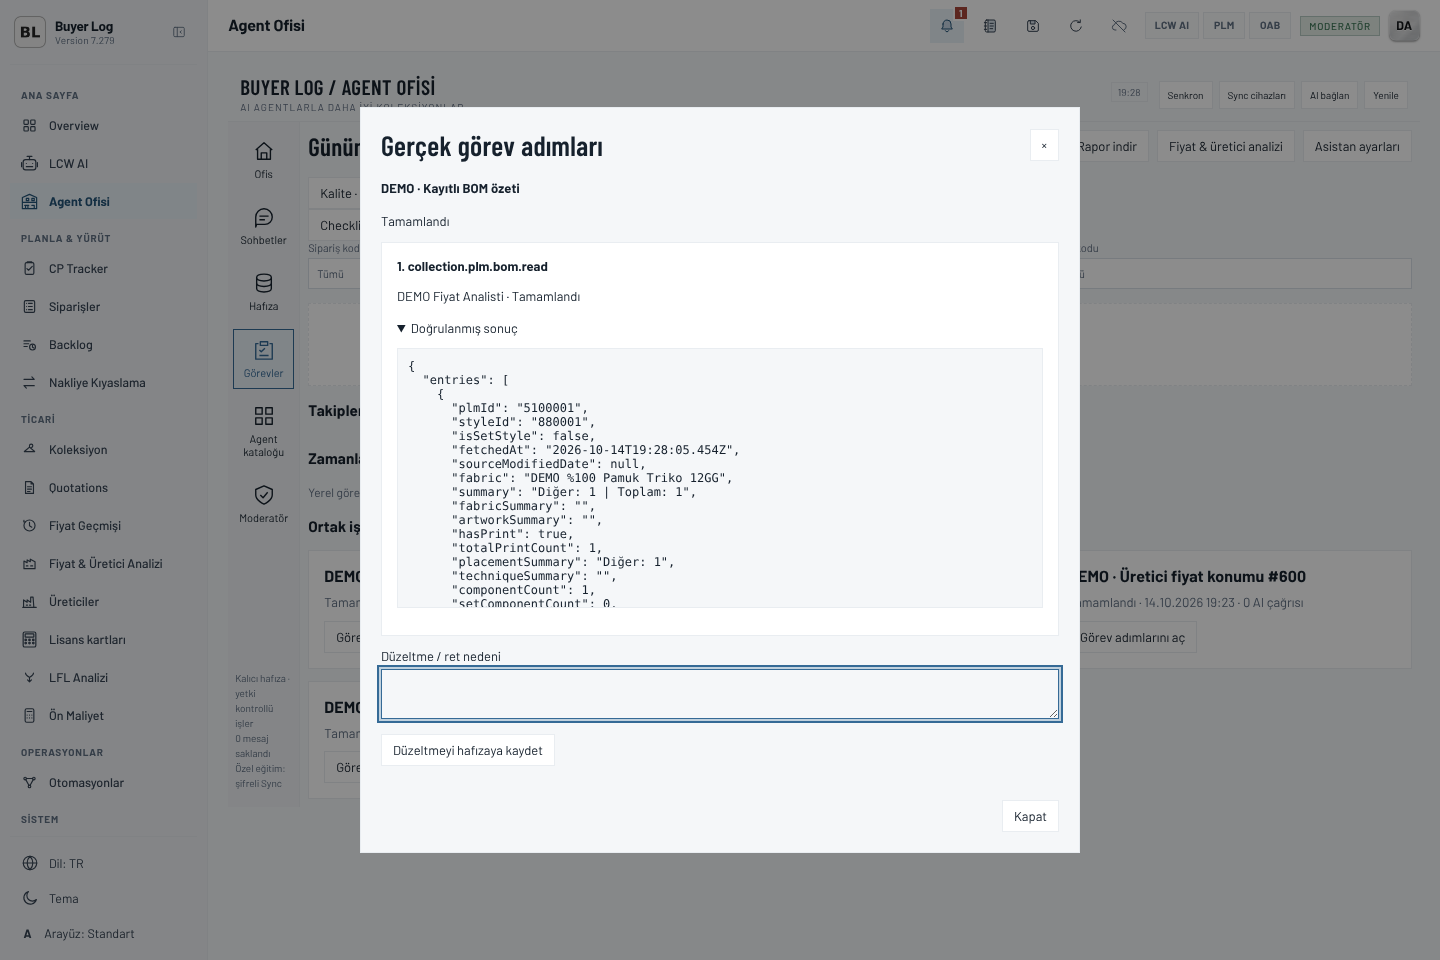
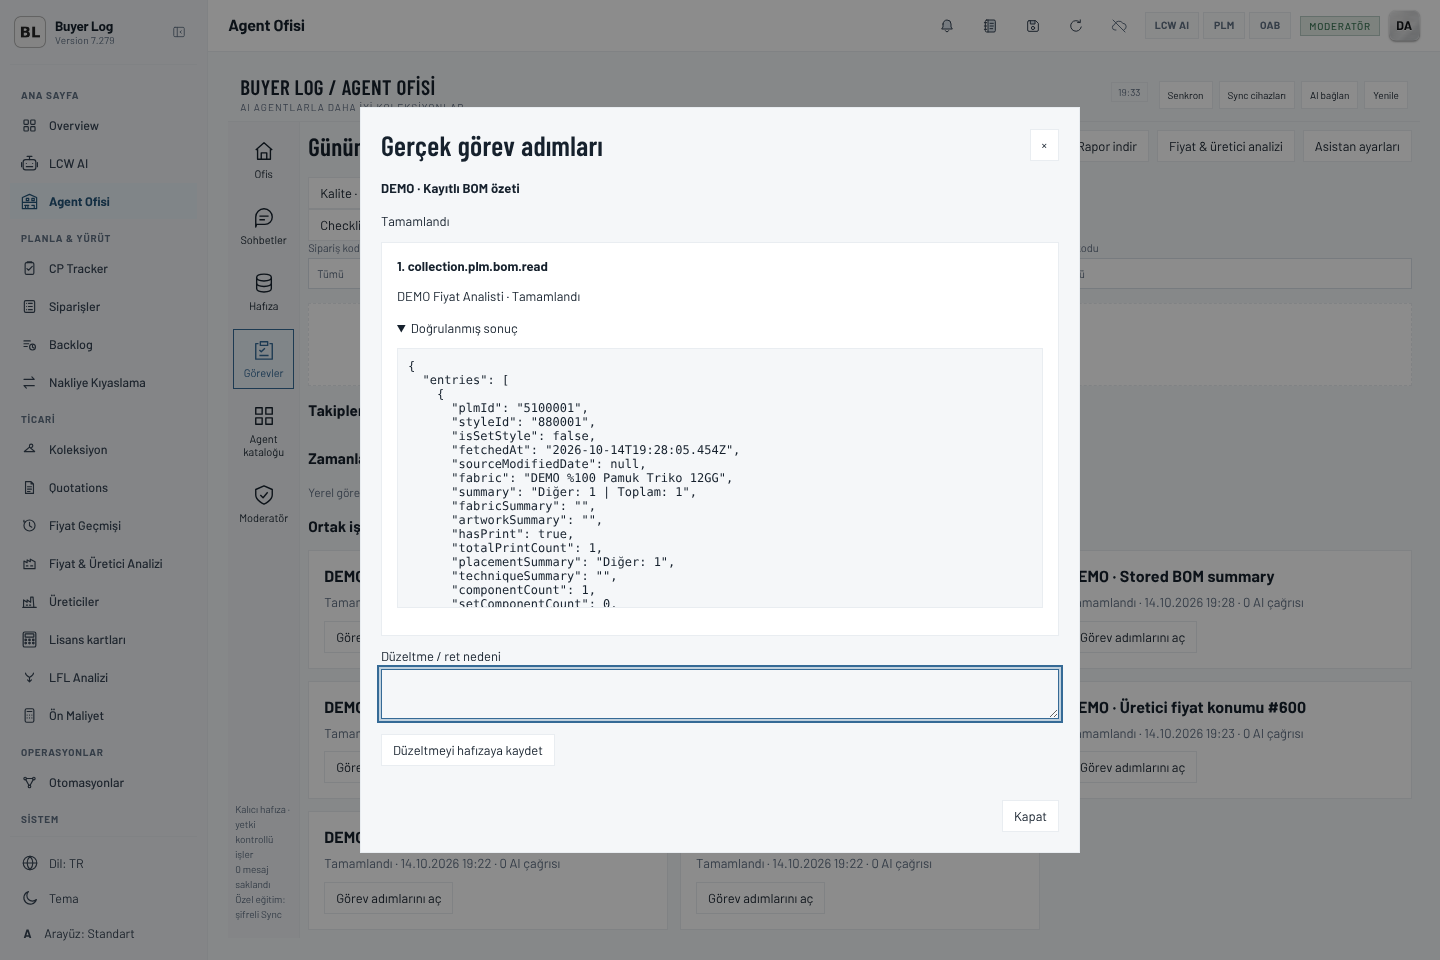
fix(agent): review follow-ups for price analysis and holiday reads
- Holidays: a provider outage (service returns source 'unavailable' with
  only estimated dates) is refused with OFFICE_HOLIDAY_UNAVAILABLE instead
  of being reported as a verified calendar; each holiday keeps the flags the
  screen uses (national/global, subdivisions, types, estimated).
- Price analysis: with only currentSeason the comparison season is the one
  before it, as on the screen; filter values that normalize to empty are
  refused; strict output schemas.
- Neutral TR/EN text for OFFICE_SOURCE_FILTER_REQUIRED (also used by reads).
- Recaptured holiday/PLM screenshots with matching agent names.

Claude-Session: https://claude.ai/code/session_01RDGeBuF9PY1NvEEQxNYnrZ

diff --git a/resources/app/server/lib/agent-price-analysis-tools.js b/resources/app/server/lib/agent-price-analysis-tools.js
@@ -6,10 +6,14 @@
 const {object,string,array}=require('./agent-capability-contract'),{error}=require('./agent-office-store');
 const Prices=require('../../public/price-supplier-insights-engine'),fields=require('./canonical-fields'),{aggregateSupplier}=require('./agent-office-decision-support');
 const count={type:'integer',minimum:0},num={type:['number','null']},label=string(300);
-const filters=object(Object.fromEntries(Prices.FILTER_DIMENSIONS.map(dim=>[dim,{...array(string(300),100),minItems:1}])));
+const filters=object(Object.fromEntries(Prices.FILTER_DIMENSIONS.map(dim=>[dim,{...array({...string(300),minLength:1},100),minItems:1}])));
 const place=object({key:label,name:label,volume:num,previousVolume:num,share:num,previousShare:num,shareChange:num,records:count,previousRecords:count,price:num,priceChange:num});
+const supplierGroup=object({key:label,name:label,volume:num,previousVolume:num,records:count,price:num,models:count,index:num,groupShare:num,priceChange:num});
+const supplier=object({key:label,name:label,volume:num,previousVolume:num,share:num,previousShare:num,volumeChange:num,price:num,previousPrice:num,models:count,priceLevel:num,priceChange:num,priceChangeCoverage:num,records:count,previousRecords:count,status:string(20),volumeDelta:num,groups:array(supplierGroup,8),omittedGroups:count});
+const group=object({key:label,name:label,volume:num,share:num,price:num,models:count,suppliers:array(object({key:label,name:label,price:num,index:num,volume:num,share:num,models:count,eligible:{type:'boolean'}}),10)});
 const output={...object({verified:{enum:[true]},data:{...object({priceType:{enum:['finalFob','supplierFob']},currency:string(8),currencies:array(string(8),50),seasons:array(string(80),200),currentSeason:string(80),previousSeason:string(80),hasComparison:{type:'boolean'},
-  groupBy:string(40),totals:{type:'object'},manufacturers:array({type:'object'},100),omittedManufacturers:count,countries:array(place,30),groups:array({type:'object'},30),records:count,loadedAt:{type:['string','null'],maxLength:60}}),required:['priceType','currency','totals','manufacturers','records']}}),required:['verified','data']};
+  groupBy:string(40),totals:object({volume:num,previousVolume:num,volumeChange:num,price:num,previousPrice:num,marketPriceChange:num,models:count,records:count,manufacturers:count,newManufacturers:count,exitManufacturers:count,countries:count,top3Share:num}),
+  manufacturers:array(supplier,100),omittedManufacturers:count,countries:array(place,30),groups:array(group,30),records:count,loadedAt:{type:['string','null'],maxLength:60}}),required:['priceType','currency','totals','manufacturers','records']}}),required:['verified','data']};
 const project=(value,keys)=>Object.fromEntries(keys.filter(k=>value[k]!==undefined).map(k=>[k,value[k]]));
 function registerPriceAnalysisTools(registry,deps){
   registry.registerCapability({id:'priceanalysis.insights.read',module:'priceanalysis',operation:'READ',risk:'read',areas:['priceanalysis'],agentAreas:['priceanalysis'],
@@ -24,7 +28,11 @@ function registerPriceAnalysisTools(registry,deps){
       const priceType=args.priceType||'finalFob';
       const dataset=Prices.prepare(source.rows.map((row,index)=>Prices.orderPriceObservation(row,'orders',priceType,index,fields)));
       const seasons=Prices.seasons(dataset),periods=Prices.defaultPeriods(seasons);
-      const model=Prices.analyze(dataset,{currency:args.currency,currentSeason:args.currentSeason??periods.currentSeason,previousSeason:args.previousSeason??periods.previousSeason,groupBy:args.groupBy,filters:args.filters,minSample:2});
+      // A filter value that normalizes to empty would silently drop the filter.
+      for(const values of Object.values(args.filters||{}))if(values.some(value=>!Prices.keyOf(value)))throw error('OFFICE_TASK_INVALID',422);
+      // Same comparison season as the screen: the season before the chosen one.
+      const currentSeason=args.currentSeason??periods.currentSeason,previousSeason=args.previousSeason??(args.currentSeason?Prices.previousSeason(args.currentSeason,seasons):periods.previousSeason);
+      const model=Prices.analyze(dataset,{currency:args.currency,currentSeason,previousSeason,groupBy:args.groupBy,filters:args.filters,minSample:2});
       const limit=args.limit||25,list=model.manufacturers.filter(m=>m.records>0||m.previousRecords>0);
       return {priceType,currency:model.currency,currencies:model.currencies,seasons,currentSeason:model.currentSeason,previousSeason:model.previousSeason,hasComparison:model.hasComparison,groupBy:model.groupBy,totals:model.totals,
         manufacturers:list.slice(0,limit).map(aggregateSupplier),omittedManufacturers:Math.max(0,list.length-limit),

diff --git a/resources/app/tests/agent-price-analysis-tools.test.js b/resources/app/tests/agent-price-analysis-tools.test.js
@@ -44,7 +44,33 @@ test('holiday READ sends only country and year through the native service and ma
   registerHolidayTools(registry,{holidayService:{getYear:async args=>{calls.push(args);if(fail)throw Object.assign(new Error('x'),{code:fail});return {countryCode:'BD',year:2026,rows:[{date:'2026-12-16',name:'Victory Day',localName:'বিজয় দিবস',extra:'ignored'}],source:'verified-catalog',stale:false};}}});
   const result=await registry.execute('overview.holidays.read',{countryCode:'bd',year:2026},{ownerId:profile.id,profile});
   assert.deepEqual(calls,[{countryCode:'BD',year:2026}]);
-  assert.deepEqual(result.data.holidays,[{date:'2026-12-16',name:'Victory Day',localName:'বিজয় দিবস'}]);
+  assert.deepEqual(result.data.holidays,[{date:'2026-12-16',name:'Victory Day',localName:'বিজয় দিবস',nationalHoliday:true,global:true,subdivisionCodes:null,holidayTypes:['Public'],estimated:false}]);
   await assert.rejects(registry.execute('overview.holidays.read',{countryCode:'BDX',year:2026},{ownerId:profile.id,profile}),{code:'OFFICE_TOOL_SCHEMA'});
   fail='HOLIDAY_PROVIDER_FAILED';await assert.rejects(registry.execute('overview.holidays.read',{countryCode:'BD',year:2026},{ownerId:profile.id,profile}),{code:'OFFICE_HOLIDAY_UNAVAILABLE'});
+});
+
+test('a real provider outage is refused instead of returning an empty or estimate-only calendar',async()=>{
+  const {registerHolidayTools}=require('../server/lib/agent-holiday-tools'),{createHolidayService}=require('../server/lib/holiday-service');
+  const profile={id:'demo',enabled:true},registry=createToolRegistry({userAccess:{profileById:()=>profile,hasArea:()=>true,appendAudit:()=>{}}});
+  registerHolidayTools(registry,{holidayService:createHolidayService({fetchFn:async()=>{throw new Error('offline');}})});
+  for(const countryCode of ['DE','EG'])await assert.rejects(registry.execute('overview.holidays.read',{countryCode,year:2026},{ownerId:profile.id,profile}),{code:'OFFICE_HOLIDAY_UNAVAILABLE'});
+});
+
+test('regional and non-public holidays keep the flags the screen uses',async()=>{
+  const {registerHolidayTools}=require('../server/lib/agent-holiday-tools');
+  const profile={id:'demo',enabled:true},registry=createToolRegistry({userAccess:{profileById:()=>profile,hasArea:()=>true,appendAudit:()=>{}}});
+  registerHolidayTools(registry,{holidayService:{getYear:async()=>({ok:true,countryCode:'DE',year:2026,source:'nager',rows:[{date:'2026-01-06',name:'Epiphany',localName:'Heilige Drei Könige',nationalHoliday:false,global:false,subdivisionCodes:['DE-BW','DE-BY'],holidayTypes:['Public']},{date:'2026-12-24',name:'Christmas Eve',localName:'Heiligabend',nationalHoliday:true,global:true,subdivisionCodes:null,holidayTypes:['Bank']}]})}});
+  const [regional,bank]=(await registry.execute('overview.holidays.read',{countryCode:'DE',year:2026},{ownerId:profile.id,profile})).data.holidays;
+  assert.equal(regional.nationalHoliday,false);assert.deepEqual(regional.subdivisionCodes,['DE-BW','DE-BY']);assert.deepEqual(bank.holidayTypes,['Bank']);
+});
+
+test('only a current season compares against the season before it, like the screen',async()=>{
+  const profile={id:'demo',enabled:true},seasonRows=['6S25','6W25','6S26','6W26'].flatMap((season,i)=>[row(10+i,season,'ALPHA',10+i),row(20+i,season,'BETA',12+i)]);
+  const registry=createToolRegistry({userAccess:{profileById:()=>profile,hasArea:()=>true,appendAudit:()=>{}}});
+  registerPriceAnalysisTools(registry,{rows:async()=>({rows:seasonRows})});
+  const result=await registry.execute('priceanalysis.insights.read',{currentSeason:'6S26'},{ownerId:profile.id,profile});
+  const seasons=Prices.seasons(Prices.prepare(seasonRows.map((r,i)=>Prices.orderPriceObservation(r,'orders','finalFob',i,fields))));
+  assert.equal(result.data.currentSeason,'6S26');assert.equal(result.data.previousSeason,Prices.previousSeason('6S26',seasons));
+  await assert.rejects(registry.execute('priceanalysis.insights.read',{filters:{manufacturer:['—']}},{ownerId:profile.id,profile}),{code:'OFFICE_TASK_INVALID'});
+  await assert.rejects(registry.execute('priceanalysis.insights.read',{filters:{manufacturer:['']}},{ownerId:profile.id,profile}),{code:'OFFICE_TOOL_SCHEMA'});
 });

diff --git a/resources/app/server/lib/agent-holiday-tools.js b/resources/app/server/lib/agent-holiday-tools.js
@@ -3,7 +3,10 @@
    Same holiday service as /api/world-clock-holidays: only an ISO country code
    and a year leave Buyer Log; no business data. Read only. */
 const {object,string,array}=require('./agent-capability-contract'),{error}=require('./agent-office-store');
-const row=object({date:{...string(10),pattern:'^\\d{4}-\\d{2}-\\d{2}$'},name:string(300),localName:string(300)});
+// The screen decides "public holiday here" from these flags (overview-launchpad
+// holidayIsPublic / holidayApplies); they are passed on, not dropped.
+const row=object({date:{...string(10),pattern:'^\\d{4}-\\d{2}-\\d{2}$'},name:string(300),localName:string(300),nationalHoliday:{type:'boolean'},global:{type:'boolean'},
+  subdivisionCodes:{type:['array','null'],items:string(20),maxItems:100},holidayTypes:array(string(40),10),estimated:{type:'boolean'}});
 const output={...object({verified:{enum:[true]},data:{...object({countryCode:string(2),year:{type:'integer'},holidays:array(row,200),source:string(80),stale:{type:'boolean'}}),required:['countryCode','year','holidays']}}),required:['verified','data']};
 function registerHolidayTools(registry,deps){
   registry.registerCapability({id:'overview.holidays.read',module:'overview',operation:'READ',risk:'read',areas:['overview'],agentAreas:['overview'],
@@ -15,6 +18,11 @@ function registerHolidayTools(registry,deps){
       try{result=await deps.holidayService.getYear({countryCode:args.countryCode.toUpperCase(),year:args.year});}
       catch(err){throw error(err&&err.code==='HOLIDAY_INPUT_INVALID'?'OFFICE_TASK_INVALID':'OFFICE_HOLIDAY_UNAVAILABLE',err&&err.code==='HOLIDAY_INPUT_INVALID'?422:503);}
       ctx.assertAuthority?.();
-      return {countryCode:result.countryCode,year:result.year,holidays:(result.rows||[]).slice(0,200).map(r=>({date:r.date,name:String(r.name||''),localName:String(r.localName||'')})),source:String(result.source||''),stale:result.stale===true};}});
+      // The service does not throw on a provider outage: it returns source
+      // 'unavailable' (plus estimated Islamic dates). That is not a calendar.
+      if(!result||result.source==='unavailable'||result.ok===false)throw error('OFFICE_HOLIDAY_UNAVAILABLE',503);
+      return {countryCode:result.countryCode,year:result.year,holidays:(result.rows||[]).slice(0,200).map(r=>({date:r.date,name:String(r.name||''),localName:String(r.localName||''),
+        nationalHoliday:r.nationalHoliday!==false,global:r.global!==false,subdivisionCodes:Array.isArray(r.subdivisionCodes)?r.subdivisionCodes.slice(0,100).map(v=>String(v).slice(0,20)):null,
+        holidayTypes:(Array.isArray(r.holidayTypes)?r.holidayTypes:['Public']).slice(0,10).map(v=>String(v).slice(0,40)),estimated:r.estimated===true})),source:String(result.source||''),stale:result.stale===true};}});
 }
 module.exports={registerHolidayTools};

diff --git a/resources/app/public/agent-office.js b/resources/app/public/agent-office.js
@@ -36,7 +36,7 @@
       PROFILE_UNKNOWN:L('Bilinmeyen kaynak türü.','Unknown source type.'),
       MODULE_NOT_FEEDABLE:L('Bu kaynak türü seçilen modülleri besleyemez.','This source type cannot feed the selected modules.'),
       OFFICE_OPERATION_IN_PROGRESS:L('Bu kullanıcı için başka bir yenileme sürüyor; bitince yeniden deneyin.','Another refresh is running for this user; try again when it finishes.'),
-      OFFICE_SOURCE_FILTER_REQUIRED:L('Yenileme için önce kaynak filtresini tanımlayın.','Define the source filter before refreshing.'),
+      OFFICE_SOURCE_FILTER_REQUIRED:L('Bu işlem için önce kaynak filtresini (Horizon) tanımlayın.','Define the source filter (Horizon) before this operation.'),
       OFFICE_NATIVE_OPERATION_CANCELLED:L('Native işlem iptal edildi; veri değişmedi.','The native operation was cancelled; no data changed.'),
       SOURCE_AMBIGUOUS:L('Aynı kaynak kimliğiyle birden fazla kayıt var. Önce kaynak kayıtlarını düzeltin.','Multiple records have the same source ID. Correct the source records first.'),
       SOURCE_NOT_FOUND:L('Kayıtlı kaynak bulunamadı. Güncel kaynak kimliğini seçin.','The saved source was not found. Select a current source ID.'),

diff --git a/docs/ai/AGENT_NATIVE_MODULE_AUDIT.md b/docs/ai/AGENT_NATIVE_MODULE_AUDIT.md
@@ -4,10 +4,10 @@ Operation-by-operation inventory of the remaining modules against the unified ac
 
 | Module / function | Native route or engine | Office capability | Decision |
 |---|---|---|---|
-| Price & Supplier Analysis — Horizon source analysis | `/api/data/price-analysis` + `price-supplier-insights-engine` | `priceanalysis.insights.read` (READ, `priceanalysis` area) | Added. Rows come from the same `priceAnalysisRowsFor` (IAM scope, effective Horizon, date overrides). The observation builder moved from `app-main.js` into the shared engine; the screen and the agent use it, and a browser comparison of old and new bridge output for horizon/orders/cp × Final/Supplier FOB was identical. Aggregates only, no raw rows. |
+| Price & Supplier Analysis — Horizon source analysis | `/api/data/price-analysis` + `price-supplier-insights-engine` | `priceanalysis.insights.read` (READ, `priceanalysis` area) | Added. Rows come from the same `priceAnalysisRowsFor` (IAM scope, effective Horizon, date overrides). The observation builder moved from `app-main.js` into the shared engine; the screen and the agent use it, and a browser comparison of old and new bridge output for horizon/orders/cp × Final/Supplier FOB was identical. Aggregates only, no raw rows; strict output schemas. With only `currentSeason`, the comparison season is the season before it (as on the screen); filter values that normalize to empty are refused. The extracted row function now evaluates source-filter readiness with the real user profile (the route used the request object, which skipped the role/person default Horizon); this matches the Horizon filter it already applied. |
 | Price & Supplier Analysis — CP/Orders/LFL/Collection sources | screen bridge over loaded projections | `cp.analyze`, `orders.analyze`, `lfl.*`, `collection.supplier.analyze` | Existing generic analysis tools cover these sources. |
 | Pricing History | client screen over quotations + collection | `quotation.list`, `collection.records`, `collection.pricing.*` | No separate store or route exists; covered. |
-| World-clock public holidays | `/api/world-clock-holidays` → `holiday-service` | `overview.holidays.read` (READ, `overview`) | Added. Only ISO country code + year leave Buyer Log. Provider failure → `OFFICE_HOLIDAY_UNAVAILABLE` (TR/EN). |
+| World-clock public holidays | `/api/world-clock-holidays` → `holiday-service` | `overview.holidays.read` (READ, `overview`) | Added. Only ISO country code + year leave Buyer Log. The service answers an outage with `source:'unavailable'` instead of throwing; the tool refuses that with `OFFICE_HOLIDAY_UNAVAILABLE` (TR/EN) instead of returning an empty or estimate-only calendar. Each holiday keeps the screen's flags (national/global, subdivisions, types, estimated). |
 | INTAKE state/metadata | `/api/intake/state`, `/api/intake/metadata` | `intake.snapshot.read`, `oab.*` | Existing. |
 | INTAKE settings write | `PUT /api/intake/settings` | — | Stays user-only (connection/settings change; no agent use case approved). |
 
